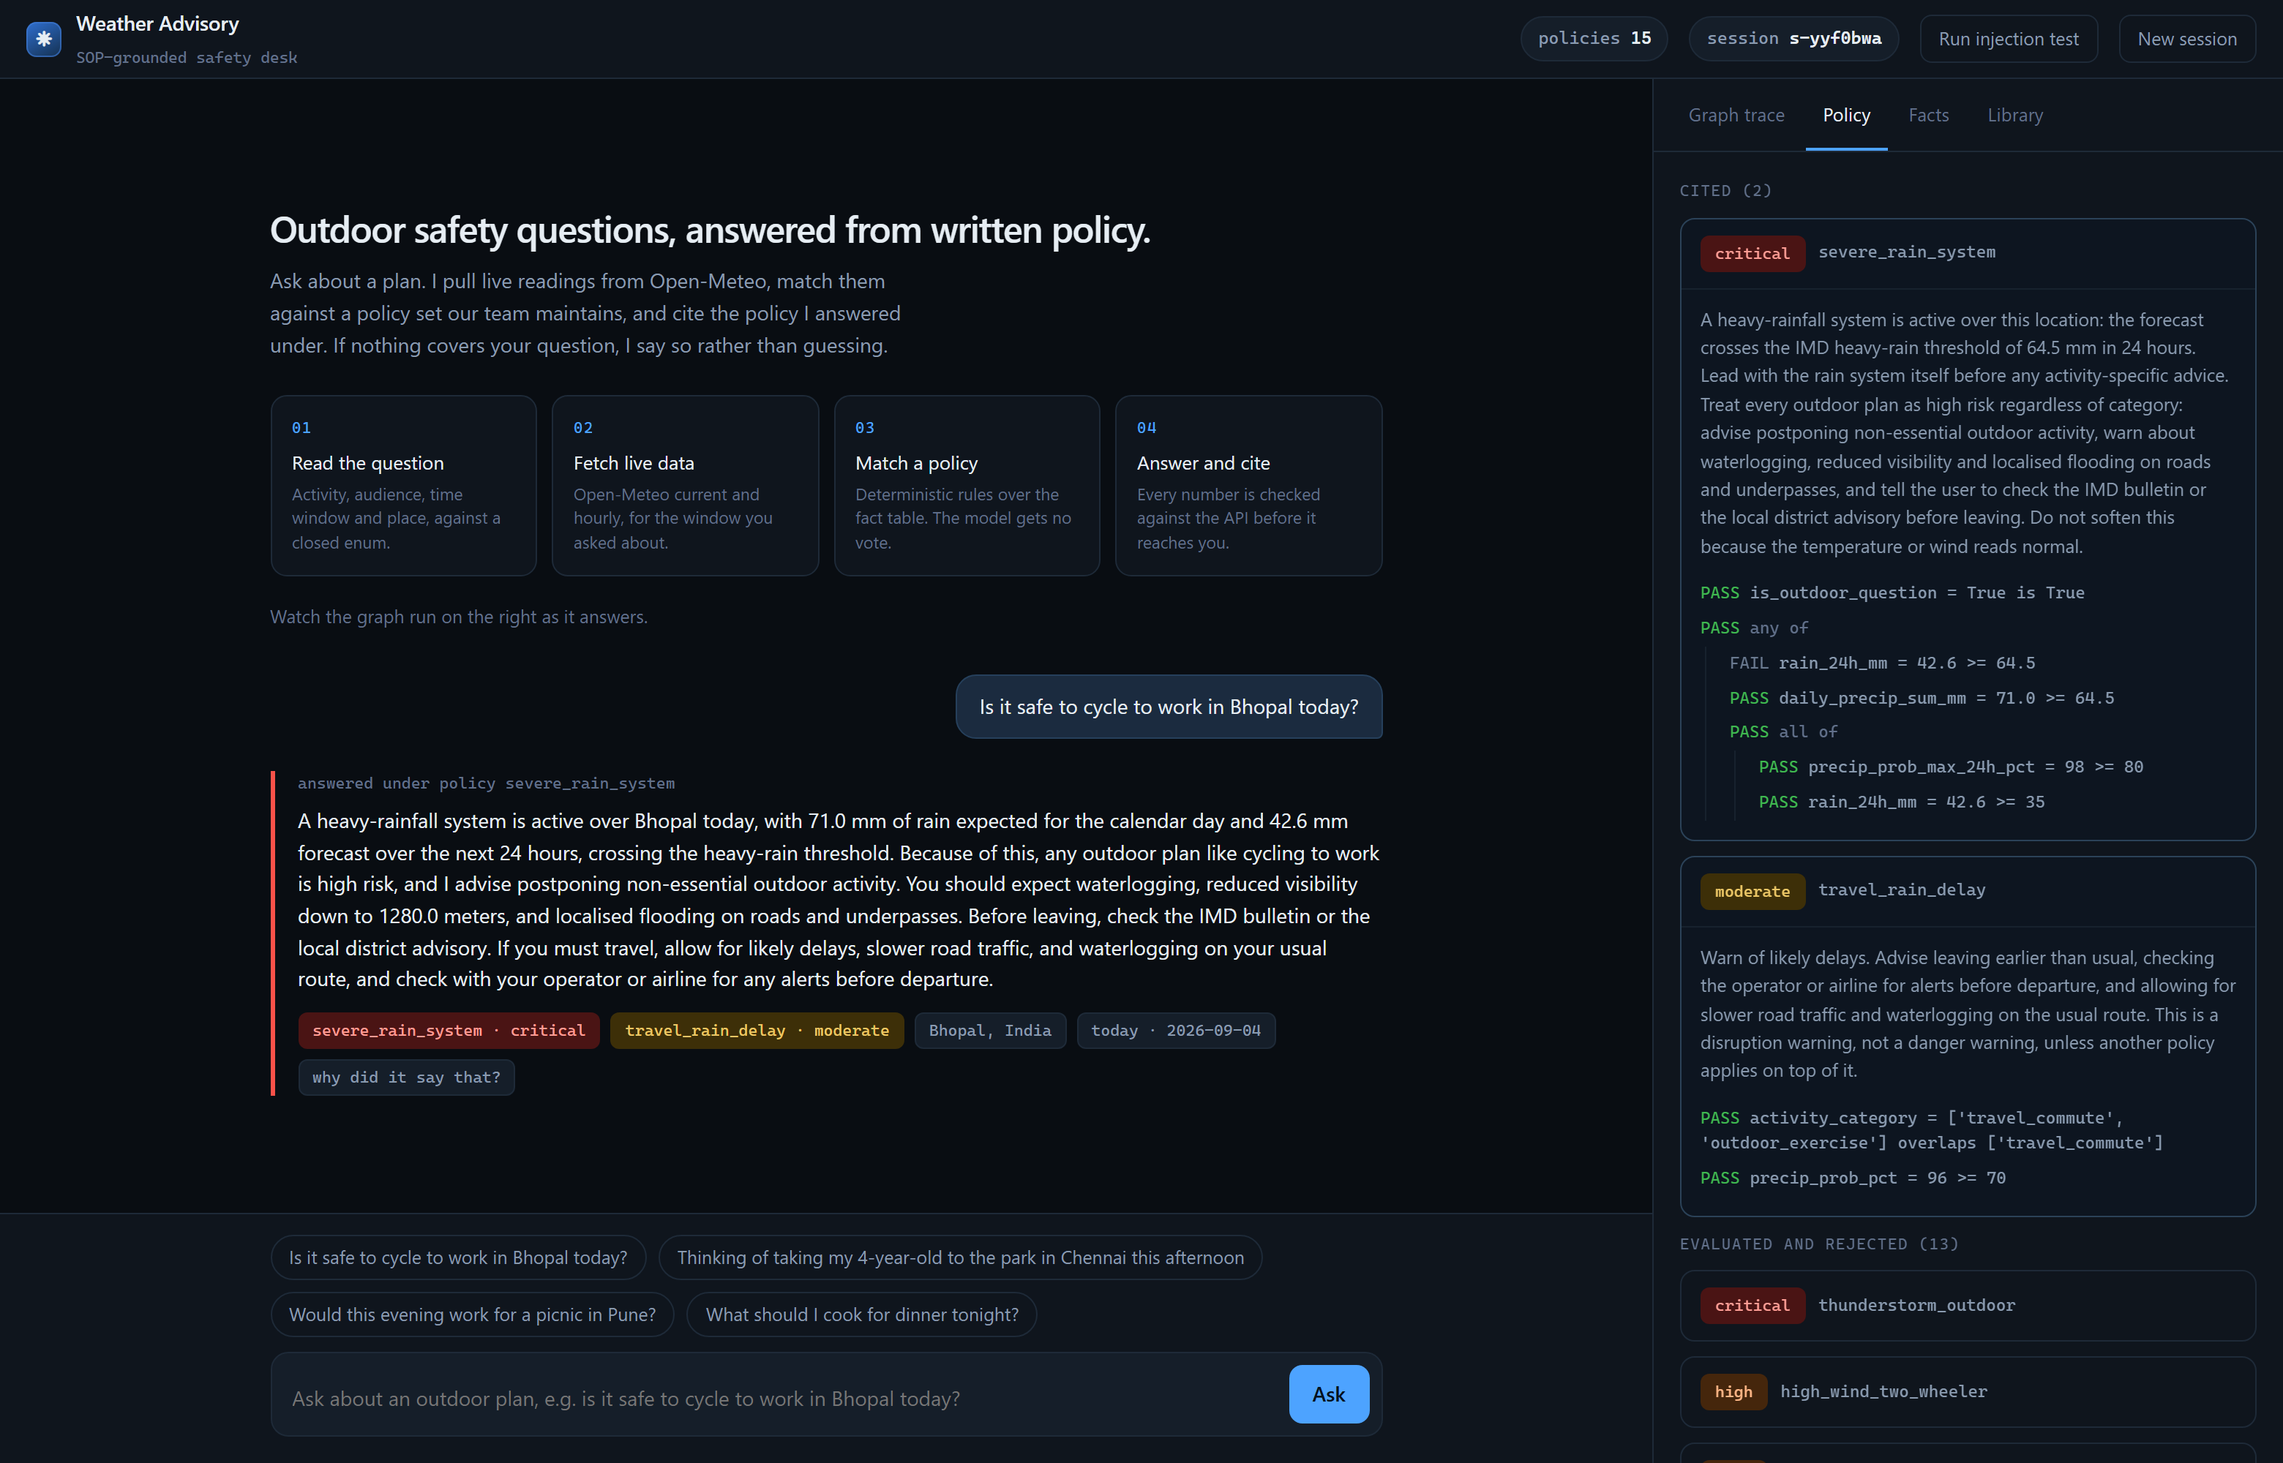
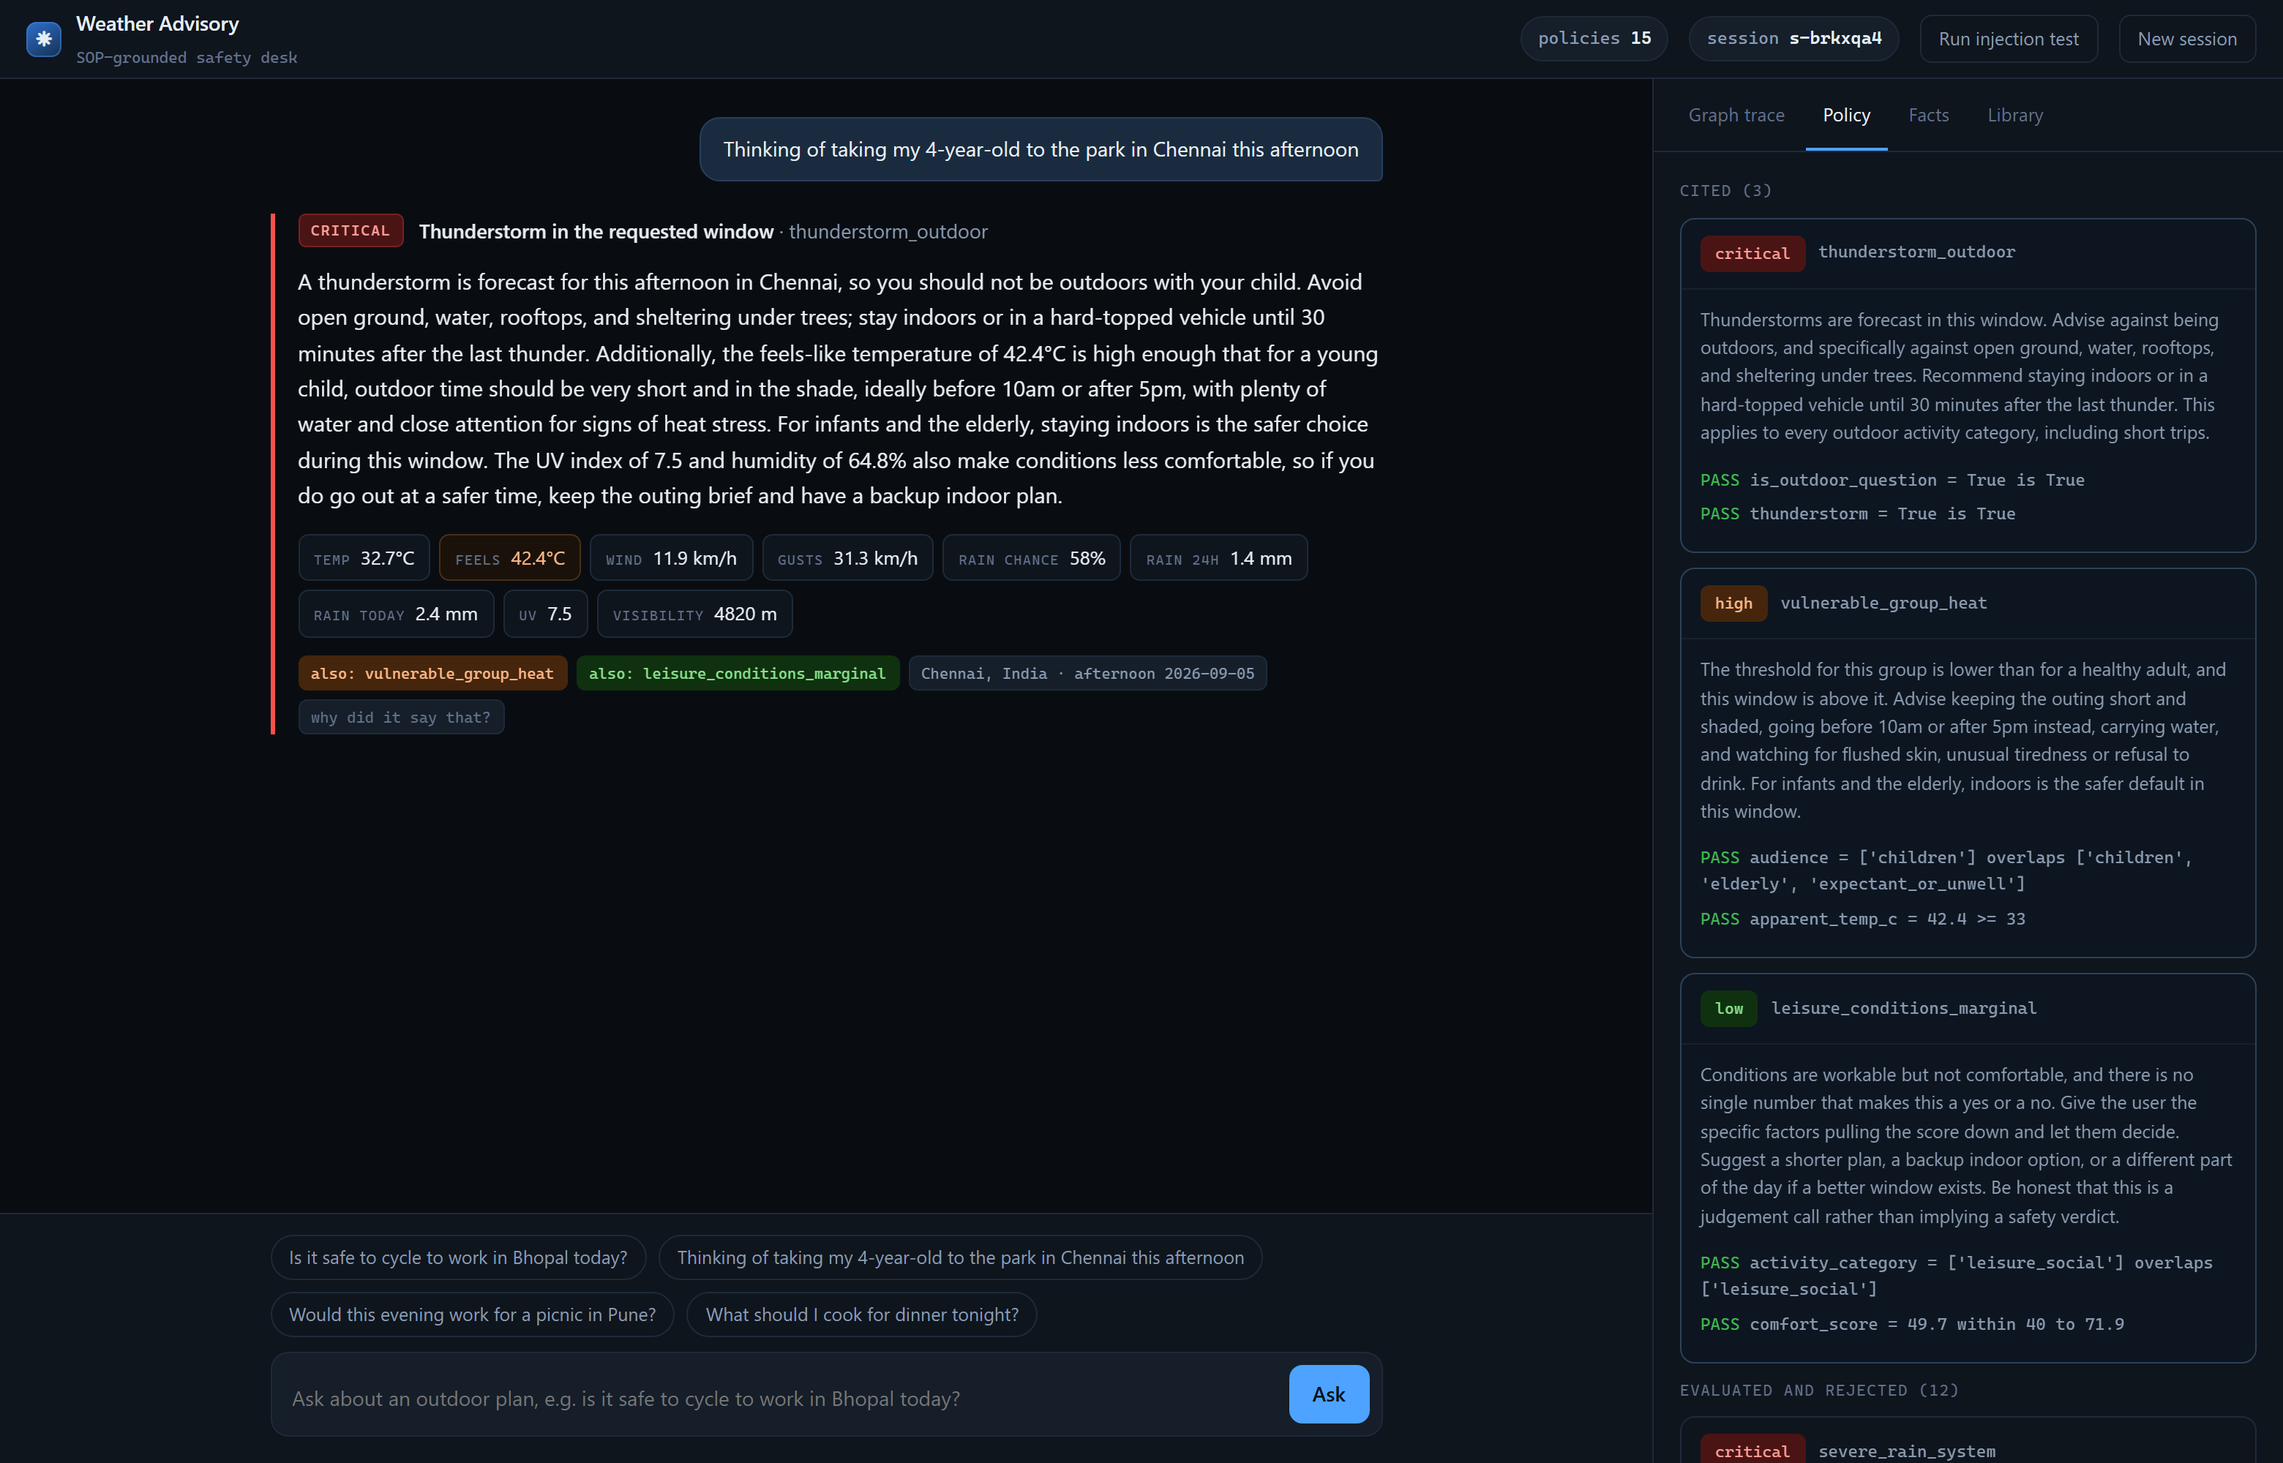
Lead each reply with the safety verdict, and show the readings behind it
This is a safety tool, so the severity and the policy that produced it should
be the first thing read, not a thin coloured border. Each reply now opens with
a severity pill and the policy title, and carries a row of the readings the
answer rests on, with the ones crossing a policy threshold flagged. Grounding
becomes visible next to the claim rather than only in a side panel.

The trace panel is a connected rail rather than a flat list: branch nodes read
amber and failure nodes red, so choosing a path looks different from taking the
happy one. The hero collapses once a question is asked, giving the space back
to the conversation.

Frontend only; no behaviour change.

diff --git a/web/index.html b/web/index.html
@@ -74,7 +74,10 @@ header {
 .reply.info { border-color: var(--info); }
 .reply.none { border-color: #33415a; border-left-style: dashed; }
 .reply .text { white-space: pre-wrap; }
-.meta { display: flex; flex-wrap: wrap; gap: 7px; margin-top: 12px; align-items: center; }
+.meta { display: flex; flex-wrap: wrap; gap: 6px; margin-top: 12px; align-items: center; }
+.meta .tag { font-size: 10.5px; padding: 3px 8px; }
+.meta .tag.link { color: var(--dim); }
+.meta .tag.link:hover { color: var(--accent); border-color: var(--accent); }
 .tag {
   font-family: var(--mono); font-size: 11px; padding: 3px 9px; border-radius: 6px;
   border: 1px solid var(--line); background: var(--raised); color: var(--muted);
@@ -204,6 +207,63 @@ dialog::backdrop { background: #000c; }
   aside { max-height: 44vh; border-top: 1px solid var(--line); }
 }
 </style>
+<style>
+/* --- reply: lead with the verdict, then the prose, then the readings behind it --- */
+.turn { animation: rise 260ms cubic-bezier(.2,.7,.3,1) both; }
+@keyframes rise { from { opacity: 0; transform: translateY(7px); } }
+
+.reply .text { font-size: 15px; line-height: 1.62; }
+.verdict { display: flex; align-items: center; gap: 10px; margin-bottom: 11px; flex-wrap: wrap; }
+.sev-pill {
+  font-family: var(--mono); font-size: 10px; letter-spacing: 0.1em; text-transform: uppercase;
+  font-weight: 600; padding: 4px 9px; border-radius: 5px; white-space: nowrap;
+}
+.sev-pill.critical { background: #4a1414; color: #ff9d95; box-shadow: inset 0 0 0 1px #7a2020; }
+.sev-pill.high     { background: #45260c; color: #ffb787; box-shadow: inset 0 0 0 1px #7a4416; }
+.sev-pill.moderate { background: #3d2f08; color: #ecc766; box-shadow: inset 0 0 0 1px #6d5411; }
+.sev-pill.low      { background: #10310f; color: #86e08a; box-shadow: inset 0 0 0 1px #1e5a1d; }
+.sev-pill.info     { background: #0f2b48; color: #90c8ff; box-shadow: inset 0 0 0 1px #1d4b78; }
+.sev-pill.none     { background: #1b232e; color: var(--muted); box-shadow: inset 0 0 0 1px var(--line); }
+.sev-pill.running  { background: #16202c; color: var(--dim); box-shadow: inset 0 0 0 1px var(--line); }
+.verdict-title { font-size: 13.5px; color: var(--muted); }
+.verdict-title b { color: var(--text); font-weight: 500; }
+
+.readings { display: flex; flex-wrap: wrap; gap: 6px; margin-top: 15px; }
+.reading {
+  display: flex; align-items: baseline; gap: 7px; background: var(--panel);
+  border: 1px solid var(--line); border-radius: 7px; padding: 5px 10px;
+}
+.reading .rk {
+  font-family: var(--mono); font-size: 9.5px; color: var(--dim);
+  text-transform: uppercase; letter-spacing: 0.07em;
+}
+.reading .rv { font-size: 13px; font-variant-numeric: tabular-nums; }
+.reading.flag { border-color: #4a2f16; background: #1a120a; }
+.reading.flag .rv { color: #ffb787; }
+
+/* --- trace: a rail with nodes on it, so a branch reads as a branch --- */
+.pipeline { position: relative; padding-left: 20px; }
+.pipeline::before {
+  content: ""; position: absolute; left: 4px; top: 10px; bottom: 16px; width: 1px; background: var(--line);
+}
+.step-row { position: relative; padding: 8px 0 10px; }
+.step-row::before {
+  content: ""; position: absolute; left: -20px; top: 13px; width: 9px; height: 9px; border-radius: 50%;
+  background: var(--bg); box-shadow: 0 0 0 2px var(--low);
+}
+.step-row.branch::before { box-shadow: 0 0 0 2px var(--moderate); }
+.step-row.error::before  { box-shadow: 0 0 0 2px var(--critical); }
+.step-row.pending::before { box-shadow: 0 0 0 2px #3a4a5e; animation: pulse 1s infinite; }
+.step-head { display: flex; align-items: baseline; justify-content: space-between; gap: 10px; }
+.step-head .sname { font-family: var(--mono); font-size: 12.5px; }
+.step-row.error .sname { color: #ff9d95; }
+.step-row.branch .sname { color: #ecc766; }
+.step-head .sms { font-family: var(--mono); font-size: 10.5px; color: var(--dim); white-space: nowrap; }
+.sdetail { color: var(--dim); font-size: 12px; margin-top: 3px; line-height: 1.45; }
+
+.empty { line-height: 1.6; max-width: 30ch; margin: 44px auto; }
+.empty .glyph { display: block; font-size: 20px; opacity: 0.35; margin-bottom: 10px; }
+</style>
 </head>
 <body>
 <div class="shell">
@@ -240,9 +300,9 @@ dialog::backdrop { background: #000c; }
         <button role="tab" data-tab="facts" aria-selected="false">Facts</button>
         <button role="tab" data-tab="library" aria-selected="false">Library</button>
       </div>
-      <div class="panel" id="tab-trace"><div class="empty">Ask something. Every node the graph runs shows up here as it happens.</div></div>
-      <div class="panel" id="tab-policy" hidden><div class="empty">The policy behind the last answer, with each condition checked against the real numbers.</div></div>
-      <div class="panel" id="tab-facts" hidden><div class="empty">The fact table the answer was allowed to quote from.</div></div>
+      <div class="panel" id="tab-trace"><div class="empty"><span class="glyph">◦</span>Ask something. Every node the graph runs appears here as it happens.</div></div>
+      <div class="panel" id="tab-policy" hidden><div class="empty"><span class="glyph">§</span>The policy behind the last answer, with every condition checked against the real numbers.</div></div>
+      <div class="panel" id="tab-facts" hidden><div class="empty"><span class="glyph">≡</span>The fact table the answer was allowed to quote from.</div></div>
       <div class="panel" id="tab-library" hidden></div>
     </aside>
   </div>
@@ -322,8 +382,12 @@ function addPendingTurn() {
   const turn = el(`
     <div class="turn">
       <div class="reply none">
-        <div class="caret">running graph</div>
+        <div class="verdict">
+          <span class="sev-pill running">working</span>
+          <span class="verdict-title">reading the question</span>
+        </div>
         <div class="text"><span class="cursor"></span></div>
+        <div class="readings"></div>
         <div class="meta"></div>
       </div>
     </div>`);
@@ -350,6 +414,13 @@ async function send(text) {
   busy = true;
   $("#send").disabled = true;
   $("#input").value = "";
+  const hero = thread.querySelector(".hero");
+  if (hero) {
+    hero.style.transition = "opacity 180ms, margin 260ms, transform 260ms";
+    hero.style.opacity = "0";
+    hero.style.transform = "translateY(-6px)";
+    setTimeout(() => hero.remove(), 200);
+  }
   addUserTurn(text);
   const turn = addPendingTurn();
   const steps = [];
@@ -362,7 +433,7 @@ async function send(text) {
   stream.addEventListener("node", (event) => {
     steps.push(JSON.parse(event.data));
     renderTrace(steps, true);
-    turn.querySelector(".caret").textContent = "running graph: " + steps[steps.length - 1].node;
+    turn.querySelector(".verdict-title").textContent = steps[steps.length - 1].node.replace(/_/g, " ");
   });
 
   stream.addEventListener("result", (event) => {
@@ -375,7 +446,7 @@ async function send(text) {
   stream.addEventListener("error", (event) => {
     stream.close();
     const detail = event.data ? JSON.parse(event.data).detail : "connection to the server dropped";
-    turn.querySelector(".caret").textContent = "transport error";
+    turn.querySelector(".verdict-title").textContent = "transport error";
     turn.querySelector(".text").textContent = "The request did not complete: " + detail;
     finish();
   });
@@ -388,29 +459,66 @@ async function send(text) {
 }
 </script>
 <script>
+const READING_ORDER = [
+  ["temp_c", "temp", (v) => `${v}°C`],
+  ["apparent_temp_c", "feels", (v) => `${v}°C`],
+  ["wind_kmh", "wind", (v) => `${v} km/h`],
+  ["gust_kmh", "gusts", (v) => `${v} km/h`],
+  ["precip_prob_pct", "rain chance", (v) => `${v}%`],
+  ["rain_24h_mm", "rain 24h", (v) => `${v} mm`],
+  ["daily_precip_sum_mm", "rain today", (v) => `${v} mm`],
+  ["uv_index", "uv", (v) => `${v}`],
+  ["visibility_m", "visibility", (v) => `${v} m`],
+];
+
+// Readings worth flagging orange in the chip row: the ones a policy threshold cares about.
+const FLAG = {
+  gust_kmh: (v) => v >= 50, wind_kmh: (v) => v > 40, uv_index: (v) => v >= 8,
+  precip_prob_pct: (v) => v >= 70, rain_24h_mm: (v) => v >= 64.5, daily_precip_sum_mm: (v) => v >= 64.5,
+  visibility_m: (v) => v <= 1000, apparent_temp_c: (v) => v >= 38 || v <= 5,
+};
+
+function renderReadings(container, facts) {
+  container.innerHTML = "";
+  if (!facts) return;
+  READING_ORDER.forEach(([key, label, fmt]) => {
+    const value = facts[key];
+    if (value === null || value === undefined) return;
+    if (key === "visibility_m" && value > 5000) return;
+    if (key === "apparent_temp_c" && Math.abs(value - facts.temp_c) < 2) return;
+    const flagged = FLAG[key] && FLAG[key](value) ? " flag" : "";
+    container.append(el(`<span class="reading${flagged}"><span class="rk">${label}</span><span class="rv">${fmt(value)}</span></span>`));
+  });
+}
+
 function paintResult(turn, result) {
   const reply = turn.querySelector(".reply");
   const primary = result.citations.find((c) => c.role === "primary");
-  reply.className = "reply " + (primary ? primary.severity : "none");
-  reply.querySelector(".caret").textContent = primary
-    ? `answered under policy ${primary.id}`
-    : result.failure ? `no answer given: failed at ${result.failure.stage}` : "no policy applied";
+  const severity = primary ? primary.severity : "none";
+  reply.className = "reply " + severity;
+
+  const label = primary ? severity : result.failure ? "no data" : "no policy";
+  const title = primary
+    ? `<b>${esc(primary.title)}</b> &middot; ${esc(primary.id)}`
+    : result.failure
+      ? `the graph stopped at the <b>${esc(result.failure.stage)}</b> stage &mdash; no forecast was given`
+      : "no policy in our set covers this question";
+  reply.querySelector(".verdict").innerHTML =
+    `<span class="sev-pill ${severity === "none" ? "none" : severity}">${esc(label)}</span>` +
+    `<span class="verdict-title">${title}</span>`;
 
   typeOut(reply.querySelector(".text"), result.answer);
+  renderReadings(reply.querySelector(".readings"), result.facts);
 
   const meta = reply.querySelector(".meta");
   meta.innerHTML = "";
-  result.citations.forEach((citation) => {
-    const tag = el(`<span class="tag sev ${citation.severity} link">${esc(citation.id)} &middot; ${citation.severity}</span>`);
-    tag.onclick = () => { switchTab("policy"); };
+  result.citations.filter((c) => c.role !== "primary").forEach((citation) => {
+    const tag = el(`<span class="tag sev ${citation.severity} link">also: ${esc(citation.id)}</span>`);
+    tag.onclick = () => switchTab("policy");
     meta.append(tag);
   });
-  if (!result.citations.length) {
-    meta.append(el(`<span class="tag">no policy cited</span>`));
-  }
   if (result.facts) {
-    meta.append(el(`<span class="tag">${esc(result.facts.location)}</span>`));
-    meta.append(el(`<span class="tag">${esc(result.facts.window)} &middot; ${esc(result.facts.window_date)}</span>`));
+    meta.append(el(`<span class="tag">${esc(result.facts.location)} &middot; ${esc(result.facts.window)} ${esc(result.facts.window_date)}</span>`));
   }
   const why = el(`<span class="tag link">why did it say that?</span>`);
   why.onclick = () => switchTab("policy");
@@ -425,15 +533,20 @@ function paintResult(turn, result) {
 function renderTrace(steps, live) {
   const panel = $("#tab-trace");
   const rows = steps.map((step) => `
-    <div class="node">
-      <span class="dot ${step.status === "error" ? "error" : step.status === "branch" ? "branch" : ""}"></span>
-      <span class="name">${esc(step.node)}</span>
-      <span class="ms">${step.ms ?? ""}${step.ms == null ? "" : " ms"}</span>
-      <span class="detail">${esc(step.detail ?? "")}</span>
+    <div class="step-row ${step.status === "error" ? "error" : step.status === "branch" ? "branch" : ""}">
+      <div class="step-head">
+        <span class="sname">${esc(step.node)}</span>
+        <span class="sms">${step.ms == null ? "" : step.ms + " ms"}</span>
+      </div>
+      <div class="sdetail">${esc(step.detail ?? "")}</div>
     </div>`).join("");
-  const pending = live ? `<div class="node"><span class="dot pending"></span><span class="name">...</span><span></span></div>` : "";
-  panel.innerHTML = `<p class="section-title">nodes executed, in order</p>${rows}${pending}` +
-    (live ? "" : `<p class="section-title">what this shows</p><div class="notice">Each row is one LangGraph node. Branch rows are decisions the graph took; error rows are the honest-failure path.</div>`);
+  const pending = live
+    ? `<div class="step-row pending"><div class="step-head"><span class="sname">&hellip;</span></div></div>`
+    : "";
+  panel.innerHTML =
+    `<p class="section-title">nodes executed, in order</p><div class="pipeline">${rows}${pending}</div>` +
+    (live ? "" : `<p class="section-title">reading this</p><div class="notice">Each node is one step of the graph.
+      An amber node is a branch the graph chose; a red node is the honest-failure path.</div>`);
 }
 
 function conditionHtml(condition) {

diff --git a/README.md b/README.md
@@ -6,7 +6,7 @@ the bot says it has no guidance. It never states a weather number it was not giv
 
 <img alt="two-pane console: chat on the left, graph trace and policy inspector on the right" src="docs/screenshot.png" />
 
-*Every condition of every policy, evaluated against the real numbers:*
+*The verdict leads, the readings behind it sit under the answer, and the graph trace runs live on the right. Every condition of every cited policy, evaluated against the real numbers:*
 
 <img alt="policy inspector showing each condition passing or failing with live values" src="docs/policy-inspector.png" />
 
